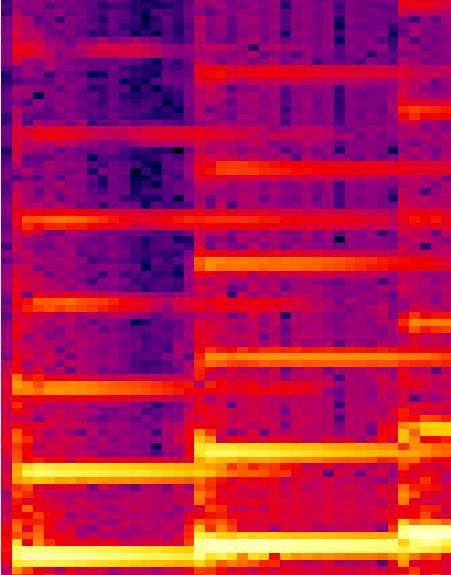
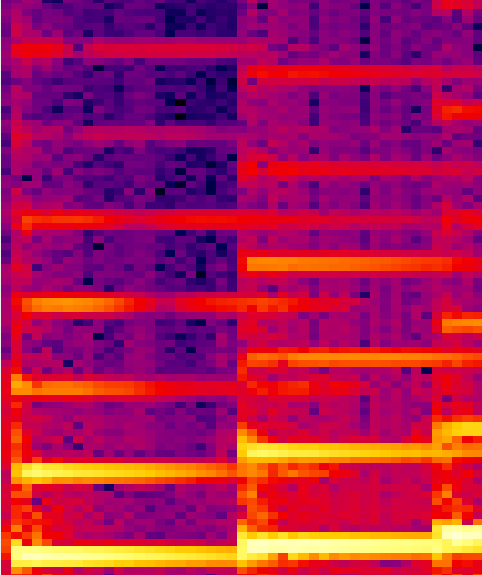
Compare images Output Spectrogram

diff --git a/Project/iAgree.m b/Project/iAgree.m
@@ -50,10 +50,16 @@ function iAgree_OpeningFcn(hObject, eventdata, handles, varargin)
 % hObject    handle to figure
 % eventdata  reserved - to be defined in a future version of MATLAB
 % handles    structure with handles and user data (see GUIDATA)
-% varargin   command line arguments to iAgree (see VARARGIN)
+% varargin   command line arguments to iAgree (see VARARGIN)guide
+
 
 % Choose default command line output for iAgree
 handles.output = hObject;
+
+%  Ensure that all axes are the same width
+handles.recordingSpectrogramAxes.Position(3) = handles.originalSpectrogramAxes.Position(3);
+handles.recordingSpectrogramAxes.Position(4) = handles.originalSpectrogramAxes.Position(4);
+
 
 % Update handles structure
 guidata(hObject, handles);
@@ -97,9 +103,6 @@ function originalLoadBtn_Callback(hObject, eventdata, handles)
     img = getframe(gca);
     handles.originalAudioImage = img.cdata;
 
-    %   play the audio
-    soundsc(handles.originalAudio, handles.originalFs);
-    
 	%   save the handles
     guidata(hObject, handles);
     
@@ -135,15 +138,28 @@ function recordingLoadButton_Callback(hObject, eventdata, handles)
     img = getframe(gca);
     handles.recordingAudioImage = img.cdata;
     
-    %   play the audio
-    soundsc(handles.recordingAudio, handles.recordingFs);
-    
     %   Compares the original and recording files
     
     %   save the handles
     guidata(hObject, handles);
     
+    %   compare the images
+    compareOriginalAndRecordingImages(hObject, handles)
 
+%% compareOriginalAndRecordingImages - compares two images
+function compareOriginalAndRecordingImages(hObject, handles)
+
+    x = guidata(hObject);
+
+    x.sensitivity = 85;
+    x.p_offset = 100;
+    x.delay = 1;
+
+  %  [percent_overlap, mask_a_col, mask_b_col, overlap_mask_col] = compareImages(handles.originalAudioImage, handles.recordingAudioImage);
+    [percent_overlap, mask_a_col, mask_b_col, overlap_mask_col] = compareImages(handles.originalAudioImage, handles.originalAudioImage, 85,100,1);
+
+    axes(handles.comparisonSpectrogramAxes);
+    imshow(overlap_mask_col);
 
 % --- Executes during object creation, after setting all properties.
 function originalSpectrogramAxes_CreateFcn(hObject, eventdata, handles)
